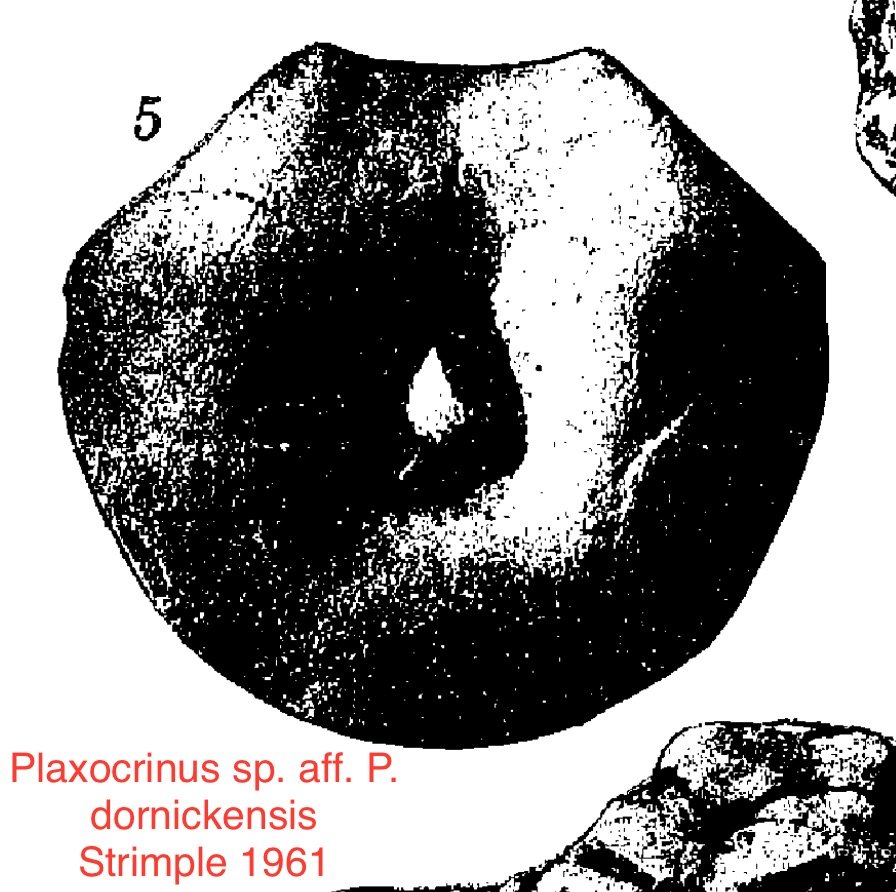
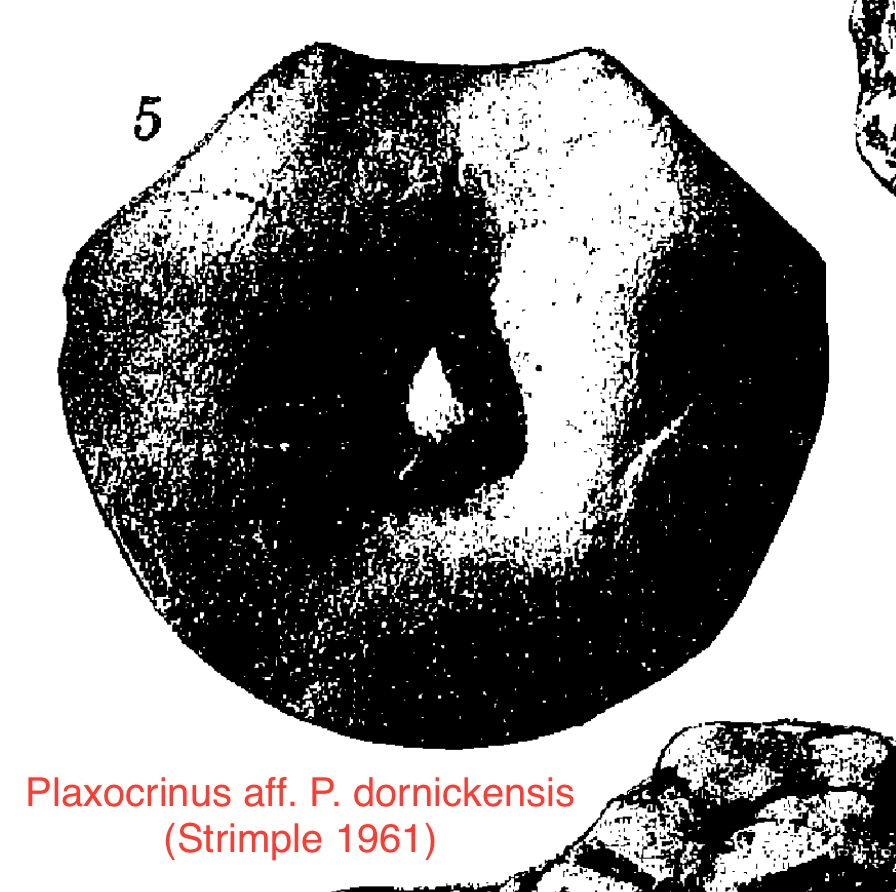
Edit desc photos

Changed region(s): [[0.0, 0.8173, 0.6562, 0.9989]]

diff --git a/crinoids/pennsylvanian/491-Cri-Pen-Hol-Pla.html b/crinoids/pennsylvanian/491-Cri-Pen-Hol-Pla.html
@@ -15,7 +15,7 @@
           <h2>
             <u></u><br>
             <b><i>
-              1. Plaxocrinus sp. aff. P. dornickensis<br>2. Parethelocrinus ellipticus<br><br>
+              1. Plaxocrinus aff. P. dornickensis<br>2. Parethelocrinus ellipticus<br><br>
             </i></b>
             Pennsylvanian<br>
             Holdenville Formation<br>
@@ -26,7 +26,7 @@
             
           </h3>
           <p>
-            Here is an incredible crinoid double that I have been looking forward to getting back from prep for a while. This piece is arguably my best fossil representative of Pennsylvanian-aged crinoids and their late-Paleozoic adaptations, because it excellently preserves two prevalent and iconic Pennsylvanian crinoid types: a Pirasocrinid (Plaxocrinus on the left) and a Cromyocrinid (Parethelocrinus on the right). The Pennsylvanian period saw a rise in the cladid crinoids, along with several adaptations presumably to defend against increasing predation from fishes newly-equipped with powerful "crushing" teeth. One strategy, exhibited by crinoids such as the Cromyocrinids, was to develop a large, globose calyx comprised of a small number of extremely thick plates. This would make it rigid and resistant to crushing forces. Another strategy, exhibited chiefly by the Pirasocrinids, was to threaten would-be predators with a formidable array of spines protruding from the arms and from a highly-specialized anal sac. Both were evidently quite successful given the prevalence of such forms throughout the Pennsylvanian; hence why this particular specimen is such a great representative of the period.<br><br>1. This specimen is arguably the "flashier" of the two and a member of the Pirasocrinidae. According to Harrell Strimple, the arms are a key distinguishing factor between different taxa within this family. This one, with spines only from the axillary primibrachials followed by uniserial, endotomously branching arms, would be assigned to the genus "Plaxocrinus".<br><br>While fairly abundant throughout the Pennsylvanian, these pirasocrinids are almost always found only as loose calyxes and brachial/anal spines. This particular specimen is exceptionally-preserved. Especially noteworthy is the magnificent umbrella-like anal sac: it is built from circlets of porous, hexagonal plates, which transition to more stellate shapes as they approach the summit. At the termination of the anal sac is a platform of several polygonal plates surrounded by a circlet of formidable defensive spines; a veritable "crown of thorns". It is postulated that the pirasocrinid anal sac contained nutritious, high-value targets to predators such as the crinoid's viscera or gonads.<br><br>There are several species of Plaxocrinus described in Strimple's original 1961 paper on the Holdenville crinoid fauna, and in my opinion there is only one among them that resembles my specimen: "Plaxocrinus sp. aff. P. dornickensis" which was represented by just a single loose calyx. Atypically for the genus, this form has a calyx with a very smooth outline owing to flat, non-bulbous basals and nonimpressed, almost imperceptible sutures. If this is what my specimen is, it may be one of if not the only known articulated crowns of its species. <br><br>Addendum: Peter Holterhoff has confirmed this crinoid as indeed being a species of Plaxocrinus similar to P. dornickensis, hence "Plaxocrinus sp. aff. P. dornickensis".<br><br>2. Here is the other half of my beautiful Holdenville double: a robust Cromyocrinid crinoid known as Parethelocrinus ellipticus. Though not as exotic-looking as the pirasocrinid, it is no less impressive of a specimen. P. ellipticus is one of the most common constituents of the Holdenville crinoid fauna but not often this complete and well-articulated.As explained in my previous posts, Cromyocrinids such as this one exemplify several general adaptive trends in the late Paleozoic cladid crinoids. For example, their calyx plates thickened and reduced in number to become more rigid and armored in response to crushing predation. This was primarily achieved through a reduction in the number of anal plates; P. ellipticus has two anal plates, down from the "primitive" three, though this is far from the most extreme case. It also exhibits the "advanced" cladid trait of robust biserial pinnulate arms, compared to the more primitive uniserial pinnulate arrangement. Though P. ellipticus generally has a smooth, unornamented calyx, certain specimens such as this one exhibit teeth-like edges to the calyx plates that give their sutures a subtle "stitched" appearance.
+            Here is an incredible crinoid double that I have been looking forward to getting back from prep for a while. This piece is arguably my best fossil representative of Pennsylvanian-aged crinoids and their late-Paleozoic adaptations, because it excellently preserves two prevalent and iconic Pennsylvanian crinoid types: a Pirasocrinid (Plaxocrinus on the left) and a Cromyocrinid (Parethelocrinus on the right). The Pennsylvanian period saw a rise in the cladid crinoids, along with several adaptations presumably to defend against increasing predation from fishes newly-equipped with powerful "crushing" teeth. One strategy, exhibited by crinoids such as the Cromyocrinids, was to develop a large, globose calyx comprised of a small number of extremely thick plates. This would make it rigid and resistant to crushing forces. Another strategy, exhibited chiefly by the Pirasocrinids, was to threaten would-be predators with a formidable array of spines protruding from the arms and from a highly-specialized anal sac. Both were evidently quite successful given the prevalence of such forms throughout the Pennsylvanian; hence why this particular specimen is such a great representative of the period.<br><br>1. This specimen is arguably the "flashier" of the two and a member of the Pirasocrinidae. According to Harrell Strimple, the arms are a key distinguishing factor between different taxa within this family. This one, with spines only from the axillary primibrachials followed by uniserial, endotomously branching arms, would be assigned to the genus "Plaxocrinus".<br><br>While fairly abundant throughout the Pennsylvanian, these pirasocrinids are almost always found only as loose calyxes and brachial/anal spines. This particular specimen is exceptionally-preserved. Especially noteworthy is the magnificent umbrella-like anal sac: it is built from circlets of porous, hexagonal plates, which transition to more stellate shapes as they approach the summit. At the termination of the anal sac is a platform of several polygonal plates surrounded by a circlet of formidable defensive spines; a veritable "crown of thorns". It is postulated that the pirasocrinid anal sac contained nutritious, high-value targets to predators such as the crinoid's viscera or gonads.<br><br>There are several species of Plaxocrinus described in Strimple's original 1961 paper on the Holdenville crinoid fauna, and in my opinion there is only one among them that resembles my specimen: "Plaxocrinus aff. P. dornickensis" which was represented by just a single loose calyx. Atypically for the genus, this form has a calyx with a very smooth outline owing to flat, non-bulbous basals and nonimpressed, almost imperceptible sutures. If this is what my specimen is, it may be one of if not the only known articulated crowns of its species. <br><br>Addendum: Peter Holterhoff has confirmed this crinoid as indeed being a species of Plaxocrinus similar to P. dornickensis, hence "Plaxocrinus aff. P. dornickensis".<br><br>2. Here is the other half of my beautiful Holdenville double: a robust Cromyocrinid crinoid known as Parethelocrinus ellipticus. Though not as exotic-looking as the pirasocrinid, it is no less impressive of a specimen. P. ellipticus is one of the most common constituents of the Holdenville crinoid fauna but not often this complete and well-articulated.As explained in my previous posts, Cromyocrinids such as this one exemplify several general adaptive trends in the late Paleozoic cladid crinoids. For example, their calyx plates thickened and reduced in number to become more rigid and armored in response to crushing predation. This was primarily achieved through a reduction in the number of anal plates; P. ellipticus has two anal plates, down from the "primitive" three, though this is far from the most extreme case. It also exhibits the "advanced" cladid trait of robust biserial pinnulate arms, compared to the more primitive uniserial pinnulate arrangement. Though P. ellipticus generally has a smooth, unornamented calyx, certain specimens such as this one exhibit teeth-like edges to the calyx plates that give their sutures a subtle "stitched" appearance.
           </p>
         </th>
         <th>

diff --git a/crinoids/pennsylvanian/pennsylvanian.html b/crinoids/pennsylvanian/pennsylvanian.html
@@ -86,10 +86,10 @@
                         </th>
                     
                         <th>
-                            
+                            <span style="color: red">&#10043;</span>
                             
                             <b><i>
-                                1. Plaxocrinus sp. aff. P. dornickensis<br>2. Parethelocrinus ellipticus<br><br>
+                                1. Plaxocrinus aff. P. dornickensis<br>2. Parethelocrinus ellipticus<br><br>
                             </i></b>
                             Pennsylvanian<br>
                             Holdenville Formation<br>
@@ -247,7 +247,7 @@
                         </th>
                     
                         <th>
-                            <span style="color: red">&#10043;</span>
+                            
                             
                             <b><i>
                                 Ethelocrinus magister<br><br>
@@ -280,7 +280,7 @@
                         </th>
                     
                         <th>
-                            <span style="color: red">&#10043;</span>
+                            
                             
                             <b><i>
                                 Moscovicrinus multiplex<br><br>

diff --git a/index.html b/index.html
@@ -33,7 +33,7 @@
     </p>
     <h3>
         <span style="color: red">&#10043;</span> = Recently (<7 days) added/updated<br><br>
-        Updated 2024-5-31<br>
+        Updated 2024-6-1<br>
     </h3>
 
     <br><br>
@@ -83,7 +83,7 @@
                 </th>
                 
                 <th>
-                    <h2><a href="crinoids/mississippian/mississippian.html">Mississippian</a><span style="color: red">&#10043;</span></h2> 
+                    <h2><a href="crinoids/mississippian/mississippian.html">Mississippian</a></h2> 
                 </th>
                 
                 <th>

diff --git a/crinoids/mississippian/mississippian.html b/crinoids/mississippian/mississippian.html
@@ -355,7 +355,7 @@
                         </th>
                     
                         <th>
-                            <span style="color: red">&#10043;</span>
+                            
                             
                             <b><i>
                                 1. Abrotocrinus coreyi<br>2. Lepidocidaris shumardiana<br><br>
